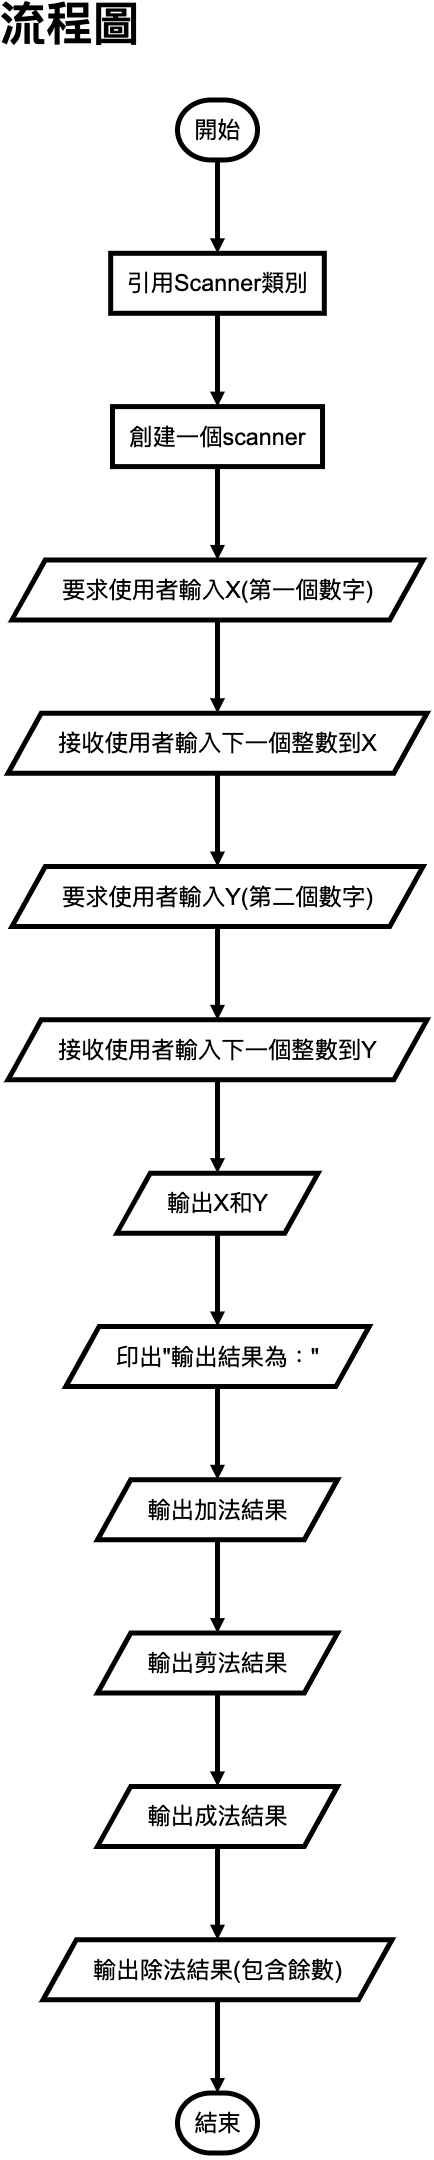
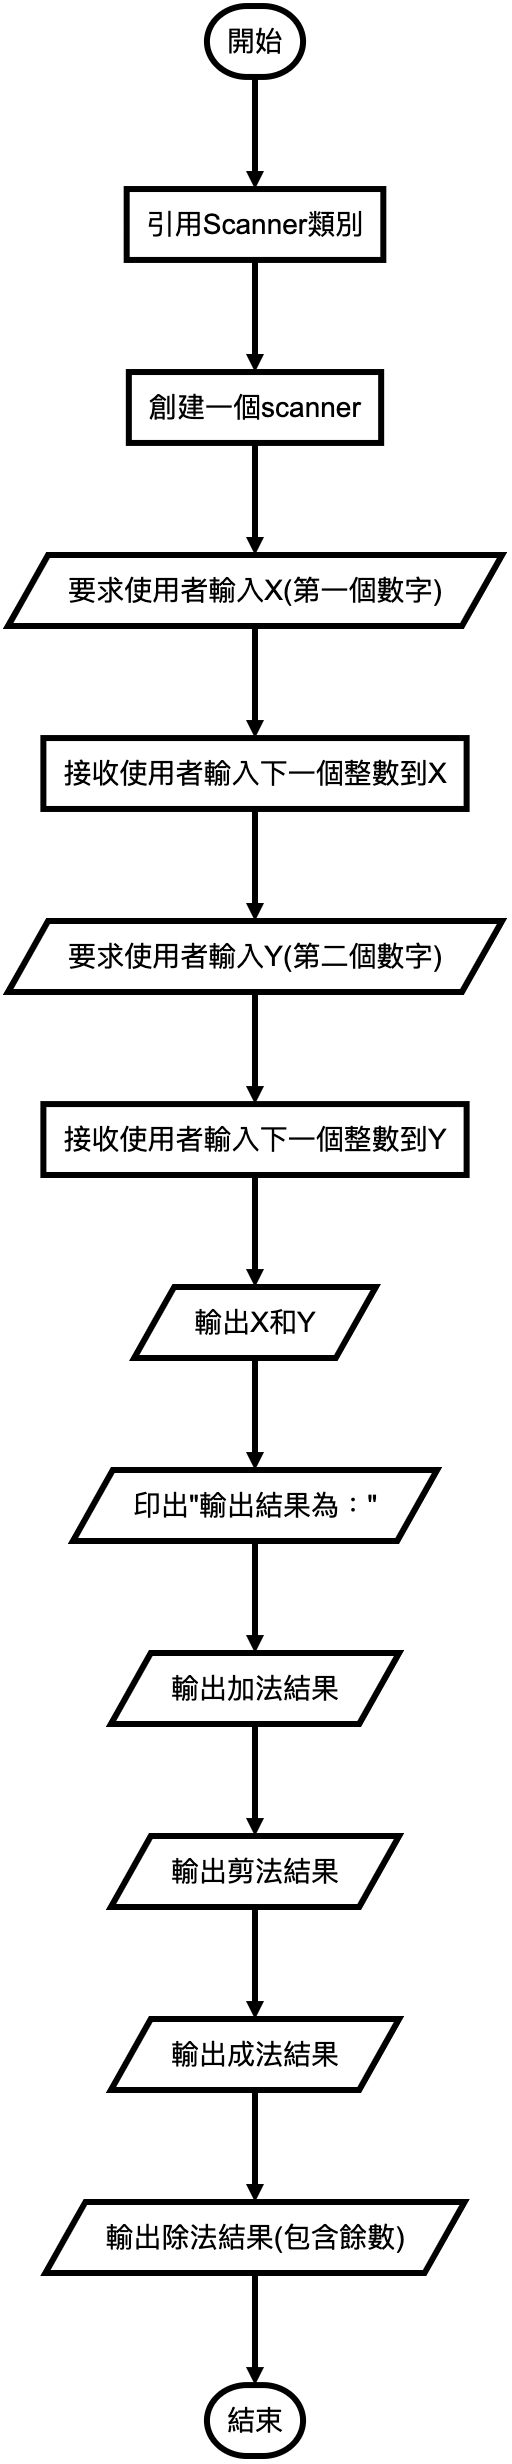
fix flow

Changed region(s): [[0.0, 0.0, 0.9885, 1.0], [0.0, 0.0, 0.3295, 0.031]]

diff --git a/java/README.md b/java/README.md
@@ -20,9 +20,9 @@ start=>start: 開始
 9=>operation: 引用Scanner類別
 15=>operation: 創建一個scanner
 16=>inputoutput: 要求使用者輸入X(第一個數字)
-17=>inputoutput: 接收使用者輸入下一個整數到X
+17=>operation: 接收使用者輸入下一個整數到X
 18=>inputoutput: 要求使用者輸入Y(第二個數字)
-19=>inputoutput: 接收使用者輸入下一個整數到Y
+19=>operation: 接收使用者輸入下一個整數到Y
 20=>inputoutput: 輸出X和Y
 21=>inputoutput: 印出"輸出結果為："
 22=>inputoutput: 輸出加法結果

diff --git a/java/homework_2.md b/java/homework_2.md
@@ -20,9 +20,9 @@ start=>start: 開始
 9=>operation: 引用Scanner類別
 15=>operation: 創建一個scanner
 16=>inputoutput: 要求使用者輸入X(第一個數字)
-17=>inputoutput: 接收使用者輸入下一個整數到X
+17=>operation: 接收使用者輸入下一個整數到X
 18=>inputoutput: 要求使用者輸入Y(第二個數字)
-19=>inputoutput: 接收使用者輸入下一個整數到Y
+19=>operation: 接收使用者輸入下一個整數到Y
 20=>inputoutput: 輸出X和Y
 21=>inputoutput: 印出"輸出結果為："
 22=>inputoutput: 輸出加法結果
